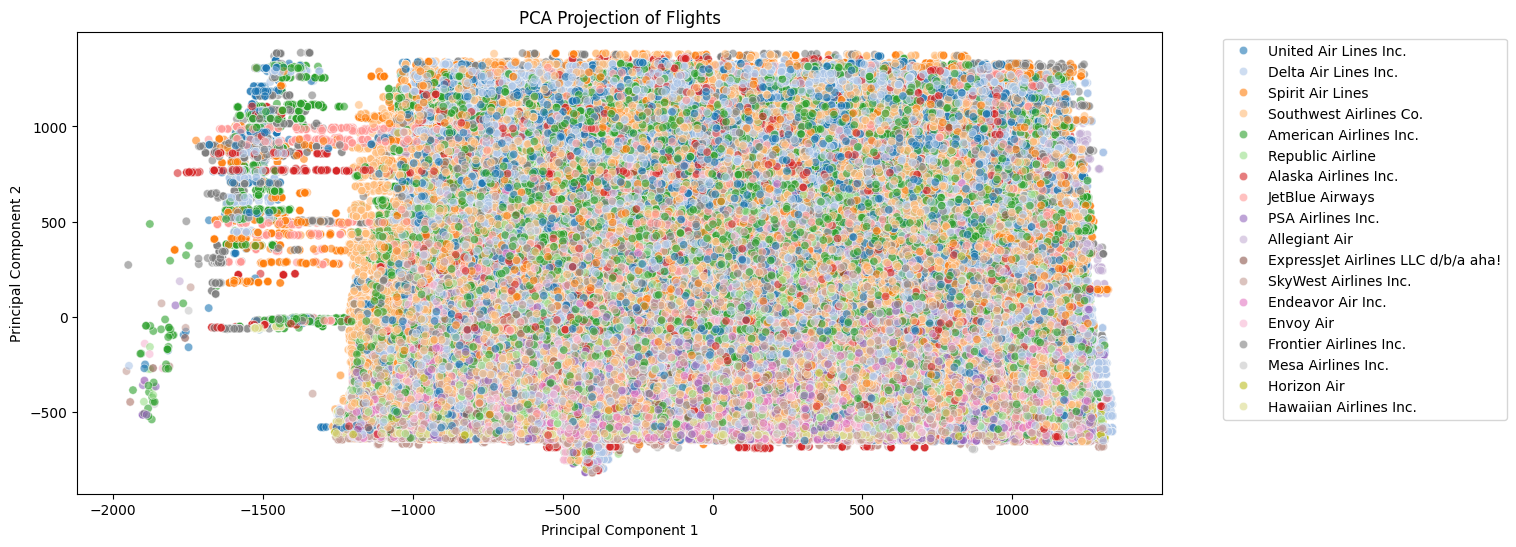
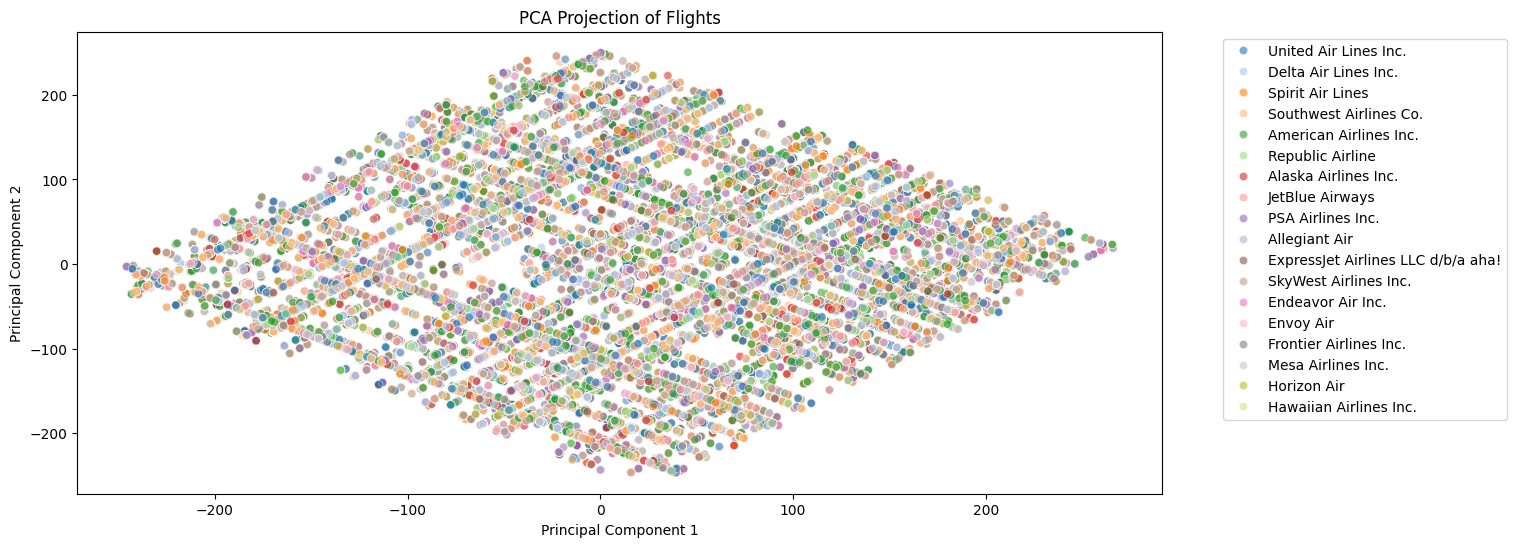
reviewing and fixing small stuf

diff --git a/PROJETO.py b/PROJETO.py
@@ -1,8 +1,6 @@
 #%% 1- Phase 2: Data Analysis and Cleansing / Pre-processing
 import pandas as pd
 import numpy as np
-from sklearn.preprocessing import OneHotEncoder, LabelEncoder
-from sklearn.preprocessing import StandardScaler, MinMaxScaler
 
 # Loading CSV
 df = pd.read_csv('datasets/flights_sample_3m.csv')
@@ -153,16 +151,12 @@ from sklearn.decomposition import PCA
 import matplotlib.pyplot as plt
 import seaborn as sns
 
-# Apenas colunas númericas/encoded
-features_for_dr = df.drop(
-    columns=[
-        'ARR_DELAY', 'AIRLINE', 'ORIGIN_CITY', 'DEST_CITY',
-        'FL_DATE', 'FL_NUMBER', 'DOT_CODE', 'AIRLINE_DOT',
-        'CRS_ELAPSED_TIME_minmax', 'DISTANCE_minmax'
-    ],
-    errors='ignore'
-)
-#print(features_for_dr.isnull().sum())
+# Retirando as colunas não numéricas
+features_for_dr = df.drop(columns=['ARR_DELAY','CRS_DEP_TIME','dep_time_bin','flight_duration_bin',
+                                           'distance_bin','CRS_ELAPSED_TIME','DISTANCE',
+                                    'CRS_ELAPSED_TIME_minmax','DISTANCE_minmax','elapsed_x_distance',
+                                   'dep_hour_x_elapsed'],errors='ignore')
+print(list(features_for_dr.columns))
 
 # PCA (Principal Component Analysis)
 pca = PCA(n_components=2)  # reduzindo as novas colunas e conjunto de dados para 2 dimensões
@@ -171,7 +165,7 @@ df_pca = pd.DataFrame(
     pca_result,
     columns=['PC1', 'PC2']
 )
-df_pca['AIRLINE'] = df['AIRLINE'].values # adicionando as companhias para comparação
+df_pca['AIRLINE'] = df_eda.loc[features_for_dr.index, 'AIRLINE'].values # adicionando as companhias para comparação
 
 # Scatterplot
 plt.figure(figsize=(14,6))
@@ -215,7 +209,7 @@ df_umap = pd.DataFrame(
     umap_result,
     columns=['UMAP1', 'UMAP2']
 )
-df_umap['AIRLINE'] = df['AIRLINE'].values
+df_umap['AIRLINE'] = df_eda.loc[features_for_dr.index, 'AIRLINE'].values
 
 # Plot UMAP projection
 print("Plotting")
@@ -307,6 +301,8 @@ else:
     print("❌ No significant differences in mean arrival delays across departure hours.\n")
 
 #%% 7- Phase 3: Model Selection / New Features
+from sklearn.preprocessing import OneHotEncoder, LabelEncoder
+from sklearn.preprocessing import StandardScaler, MinMaxScaler
 
 # Categorical Encoding
 print("Encoding... ")
@@ -402,7 +398,7 @@ df['IS_RUSH_HOUR'] = df['DEP_HOUR'].between(16, 20).astype(int)
 df.drop(columns=['FL_DATE'], inplace=True) # Remover pois já extraimos features boas
 
 print(df[['elapsed_x_distance', 'dep_hour_x_elapsed']].head())
-df.to_csv('datasets/flights_cleaned_and_scaled.csv', index=False)
+#df.to_csv('datasets/flights_cleaned_and_scaled.csv', index=False)
 
 #%% 8- Phase 3: Model Selection / Model Selection - Linear Regression Testing
 from sklearn.model_selection import train_test_split
@@ -412,7 +408,8 @@ from sklearn.metrics import mean_absolute_error, mean_squared_error, r2_score
 print(list(df.columns))  # Check all columns
 
 # Preparando
-X = df.drop(columns=['ARR_DELAY', 'CRS_DEP_TIME', 'dep_time_bin', 'flight_duration_bin', 'distance_bin'])
+X = df.drop(columns=['ARR_DELAY', 'CRS_DEP_TIME', 'dep_time_bin', 'flight_duration_bin', 'distance_bin',
+                     'CRS_ELAPSED_TIME_minmax','DISTANCE_minmax'])
 y = df['ARR_DELAY']
 
 # Split into training and testing sets
@@ -442,7 +439,8 @@ from sklearn.metrics import mean_absolute_error, mean_squared_error, r2_score
 import matplotlib.pyplot as plt
 
 # Prepare features and target
-X = df.drop(columns=['ARR_DELAY', 'CRS_DEP_TIME', 'dep_time_bin', 'flight_duration_bin', 'distance_bin'])
+X = df.drop(columns=['ARR_DELAY', 'CRS_DEP_TIME', 'dep_time_bin', 'flight_duration_bin', 'distance_bin',
+                     'CRS_ELAPSED_TIME_std','DISTANCE_std','CRS_ELAPSED_TIME_minmax','DISTANCE_minmax'])
 y = df['ARR_DELAY']
 
 # Train/test split
